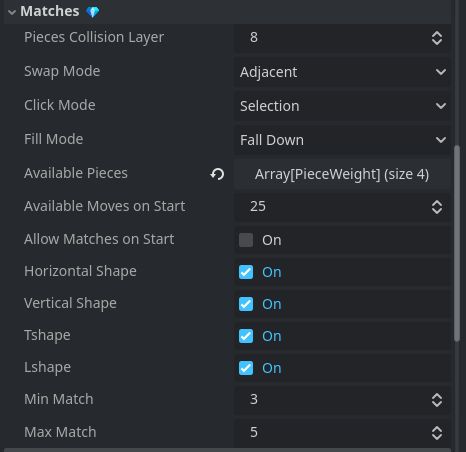
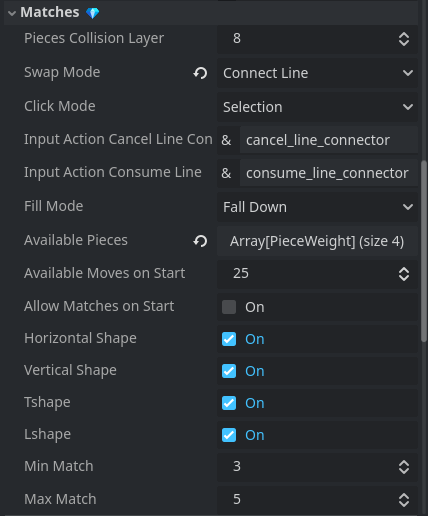
default mouse actions for line connector in board

diff --git a/README.md b/README.md
@@ -35,6 +35,8 @@
       - [Cross Diagonals](#cross-diagonals)
       - [Connect Line](#connect-line)
     - [Click mode](#click-mode)
+    - [Customizable Input actions](#customizable-input-actions)
+    - [Fill modes](#fill-modes)
 - [Add spawn pieces to the board](#add-spawn-pieces-to-the-board)
 - [GridCellUI](#gridcellui)
   - [Position](#position)
@@ -182,8 +184,26 @@ Connect the adjacent pieces from a line that originates from the selected cell u
 
 This is the `click_mode` to manipulate pieces in the board with the current swap mode. **They can be changed at runtime** and you have the next ones availables:
 
-- **Selection:** You click on the piece to select and another click in the target piece to swap
-- **Drag:** You hold the mouse and drag the piece with the mouse into the target piece to swap. When the `swap_mode` is `ConnectLine` the piece is not dragged but instead you need to hold the mouse to keep connecting lines.
+- **Selection:** You click on the piece to select and another click in the target piece to swap.
+- **Drag:** You hold the mouse and drag the piece into the target piece to swap. When the `swap_mode` is `ConnectLine` the piece is not dragged but instead you need to hold the mouse to keep connecting lines.
+
+### Customizable Input actions
+
+When you're using the `click_mode` **Selection** and the `swap_mode` **ConnectLine**, there is two input actions you can define to `consume` or `cancel` the line connector matches.
+
+⚠ If this action does not exists, by default the `consume` is triggered with `MOUSE_BUTTON_LEFT` and the `cancel` with `MOUSE_BUTTON_RIGHT` ⚠
+
+---
+
+### Fill modes
+
+This option defines the behaviour when the board is filling the empty gaps after consuming previous sequences of pieces.
+
+You have available the following ones:
+
+- **Fall down:** The pieces fall down into the deepest empty column cell as they are drawn into the board
+- **Side**: Same behaviour as **Fall down** but if there is no empty space in the column and there is an empty space in the adjacent diagonal, the piece will move there.
+- **In place:** The pieces spawn in the same cell without gravity effects
 
 # Add spawn pieces to the board
 
